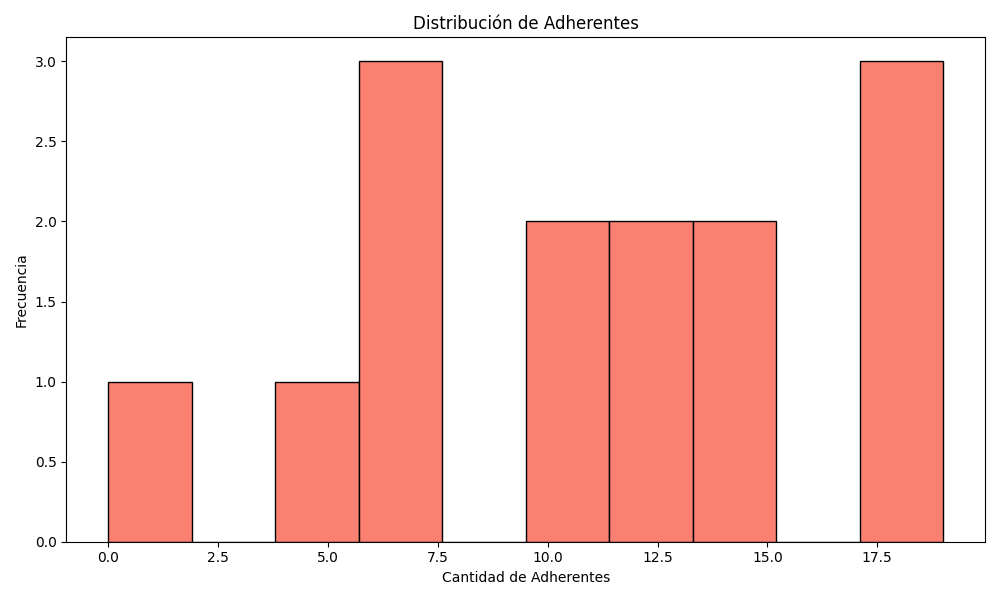
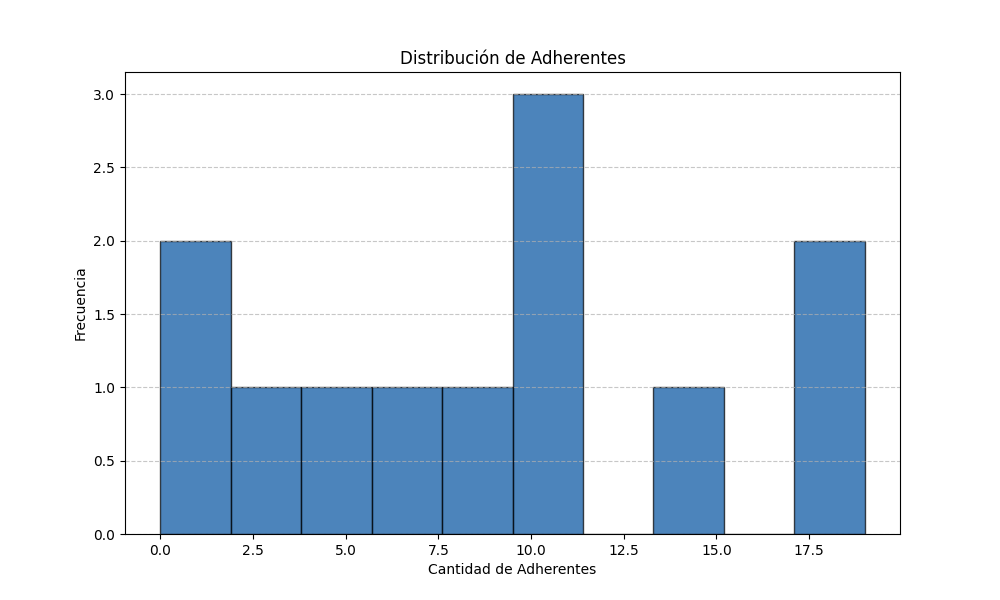
Logica de graficos y HTML totalmente corregidos

diff --git a/TrabajoPractico_3/proyecto_1/templates/analitica_reclamos.html b/TrabajoPractico_3/proyecto_1/templates/analitica_reclamos.html
@@ -38,52 +38,54 @@
                 <p>Resumen administrativo y reclamos pendientes del departamento.</p>
                 <div class="flashcard">
                     <h3>Torta</h3>
-                    <img src="{{ url_for('static', filename='graficos/soporte_informatico/torta_estado_soporte_informatico.png') }}" alt="Gráfico de torta">
+                    <img src="{% if current_user.rol in ['2', '3', '4'] and ruta_torta %}{{ url_for('static', filename=ruta_torta) }}{% else %}#{% endif %}" alt="{% if current_user.rol in ['2', '3', '4'] and ruta_torta %}Gráfico de Torta{% else %}No hay datos suficientes para generar el gráfico de torta{% endif %}">
                 </div>
                 <div class="flashcard">
                     <h3>Histograma</h3>
-                    <img src="{{ url_for('static', filename='graficos/soporte_informatico/histograma_soporte_informatico.png') }}" alt="Gráfico de histograma">
+                    <img src="{% if current_user.rol in ['2', '3', '4'] and ruta_histograma %}{{ url_for('static', filename=ruta_histograma) }}{% else %}#{% endif %}" alt="{% if current_user.rol in ['2', '3', '4'] and ruta_histograma %}Histograma de tiempos de resolución{% else %}No hay datos suficientes para generar el histograma{% endif %}">
                 </div>
                 <div class="flashcard">
                     <h3>Nube de Palabras</h3>
-                    <img src="{{ url_for('static', filename='graficos\soporte_informatico\nube_palabras_soporte_informatico.png') }}" alt="Nube de palabras">
+                    <img src="{% if current_user.rol in ['2', '3', '4'] and ruta_nube %}{{ url_for('static', filename=ruta_nube) }}{% else %}#{% endif %}" alt="{% if current_user.rol in ['2', '3', '4'] and ruta_nube %}Nube de Palabras{% else %}No hay datos suficientes para generar la nube de palabras{% endif %}">
                 </div>
             </div>
-        {% elif current_user.rol == '3' %}
-            <div>
-                <h3>Panel de Secretario Técnico</h3>
-                <p>Resumen administrativo y reclamos pendientes del departamento.</p>
-                <div class="flashcard">
-                    <h3>Torta</h3>
-                    <img src="{{ url_for('static', filename='graficos\secretario_tecnico\torta_estado_general.png') }}" alt="Gráfico de torta">
+            {% elif current_user.rol == '3' %}
+                <div>
+                    <h3>Panel de Secretaría Técnica</h3>
+                    <p>Resumen administrativo y reclamos pendientes del departamento.</p>
+                    <div class="flashcard">
+                        <h3>Torta</h3>
+                        <img src="{% if current_user.rol in ['2', '3', '4'] and ruta_torta %}{{ url_for('static', filename=ruta_torta) }}{% else %}#{% endif %}" alt="{% if current_user.rol in ['2', '3', '4'] and ruta_torta %}Gráfico de Torta{% else %}No hay datos suficientes para generar el gráfico de torta{% endif %}">
+                    </div>
+                    <div class="flashcard">
+                        <h3>Histograma</h3>
+                        <img src="{% if current_user.rol in ['2', '3', '4'] and ruta_histograma %}{{ url_for('static', filename=ruta_histograma) }}{% else %}#{% endif %}" alt="{% if current_user.rol in ['2', '3', '4'] and ruta_histograma %}Histograma de tiempos de resolución{% else %}No hay datos suficientes para generar el histograma{% endif %}">
+                    </div>
+                    <div class="flashcard">
+                        <h3>Nube de Palabras</h3>
+                        <img src="{% if current_user.rol in ['2', '3', '4'] and ruta_nube %}{{ url_for('static', filename=ruta_nube) }}{% else %}#{% endif %}" alt="{% if current_user.rol in ['2', '3', '4'] and ruta_nube %}Nube de Palabras{% else %}No hay datos suficientes para generar la nube de palabras{% endif %}">
+                    </div>
                 </div>
-                <div class="flashcard">
-                    <h3>Histograma</h3>
-                    <img src="{{ url_for('static', filename='graficos\secretario_tecnico\histograma_adherentes.png') }}" alt="Gráfico de histograma">
-                </div>
-                <div class="flashcard">
-                    <h3>Nube de Palabras</h3>
-                    <img src="{{ url_for('static', filename='graficos\secretario_tecnico\nube_palabras_secretario_tecnico.png') }}" alt="Nube de palabras">
-                </div>
-            </div>
-        {% elif current_user.rol == '4' %}
+
+       {% elif current_user.rol == '4' %}
             <div>
                 <h3>Panel de Maestranza</h3>
                 <p>Resumen administrativo y reclamos pendientes del departamento.</p>
                 <div class="flashcard">
                     <h3>Torta</h3>
-                    <img src="{{ url_for('static', filename='graficos\maestranza\torta_estado_maestranza.png') }}" alt="Gráfico de torta">
+                    <img src="{% if current_user.rol in ['2', '3', '4'] and ruta_torta %}{{ url_for('static', filename=ruta_torta) }}{% else %}#{% endif %}" alt="{% if current_user.rol in ['2', '3', '4'] and ruta_torta %}Gráfico de Torta{% else %}No hay datos suficientes para generar el gráfico de torta{% endif %}">
                 </div>
                 <div class="flashcard">
                     <h3>Histograma</h3>
-                    <img src="{{ url_for('static', filename='graficos\maestranza\histograma_maestranza.png') }}" alt="Gráfico de histograma">
+                    <img src="{% if current_user.rol in ['2', '3', '4'] and ruta_histograma %}{{ url_for('static', filename=ruta_histograma) }}{% else %}#{% endif %}" alt="{% if current_user.rol in ['2', '3', '4'] and ruta_histograma %}Histograma de tiempos de resolución{% else %}No hay datos suficientes para generar el histograma{% endif %}">
                 </div>
                 <div class="flashcard">
                     <h3>Nube de Palabras</h3>
-                    <img src="{{ url_for('static', filename='graficos\maestranza\nube_palabras_maestranza.png') }}" alt="Nube de palabras">
+                    <img src="{% if current_user.rol in ['2', '3', '4'] and ruta_nube %}{{ url_for('static', filename=ruta_nube) }}{% else %}#{% endif %}" alt="{% if current_user.rol in ['2', '3', '4'] and ruta_nube %}Nube de Palabras{% else %}No hay datos suficientes para generar la nube de palabras{% endif %}">
                 </div>
             </div>
         {% endif %}
+
     </section>
 
     <h3>Descargar reporte</h3>

diff --git a/TrabajoPractico_3/proyecto_1/templates/inicio.html b/TrabajoPractico_3/proyecto_1/templates/inicio.html
@@ -47,23 +47,6 @@
         <p class="saludo">
             Bienvenido {{ current_user.nombre_de_usuario }} al sistema de gestión y seguimiento de reclamos de la Facultad de Ingeniería de la UNER.
         </p>
-        {% if ultimos_reclamos %}
-            {%if current_user.rol in ['0','1'] %}
-            <section class="contenedor-flashcards">
-                <h2 class="titulo-seccion">Últimos Reclamos Realizados</h2>
-                <div class="flashcards-grid">
-                    {% for reclamo in ultimos_reclamos %}
-                        <div class="flashcard">
-                            <p><strong>Descripción:</strong> {{ reclamo.contenido }}</p>
-                            <p><strong>Fecha:</strong> {{ reclamo.fecha_hora.strftime('%d/%m/%Y %H:%M') }}</p>
-                            <p><strong>Clasificación:</strong> {{ reclamo.clasificacion }}</p>
-                        </div>
-                    {% endfor %}
-                </div>
-            {%endif%}
-            </section>
-        {% endif %}
-    {% else %}
         <div class="home-container">
             <div class="flashcard-big">
                 <h2 class="titulo-flashcard-grande">¿De qué se trata este sistema?</h2>

diff --git a/TrabajoPractico_3/proyecto_1/templates/manejo_reclamos.html b/TrabajoPractico_3/proyecto_1/templates/manejo_reclamos.html
@@ -27,7 +27,6 @@
     {% endif %}
     {% endwith %}
     <main class="contenedor-manejo">
-        <!-- Formulario de selección de reclamo y acción -->
         <div class="formulario-contenedor">
             <form class="formulario-manejo" action="{{ url_for('manejo_reclamos') }}" method="POST">
                 <div class="form-group">
@@ -55,8 +54,6 @@
                 <button type="submit">Confirmar</button>
             </form>
         </div>
-
-        <!-- Tabla de reclamos -->
         <div>
             <table class="tabla-reclamos">
                 <thead>
@@ -111,8 +108,6 @@
             </table>
         </div>
     </main>
-
-    <!-- Mensajes flash -->
     <div class="mensaje-flash-centro">
         {% with messages = get_flashed_messages(with_categories=true) %}
             {% if messages %}
@@ -124,7 +119,6 @@
             {% endif %}
         {% endwith %}
     </div>
-    <!-- Botón Volver -->
     <div class="volver-contenedor" style="text-align: center; margin: 30px 0;">
         <a href="{{ url_for('inicio') }}" class="enlace-boton">Volver</a>
     </div>

diff --git a/TrabajoPractico_3/proyecto_1/server.py b/TrabajoPractico_3/proyecto_1/server.py
@@ -42,8 +42,7 @@ def index():
 
 @app.route('/inicio')
 def inicio():
-    ultimos = repo_reclamos.obtener_ultimos_reclamos(limit=4)
-    return render_template('inicio.html', ultimos_reclamos=ultimos)
+    return render_template('inicio.html')
 
 @app.route('/registrarse', methods=['GET', 'POST'])
 def registrarse():
@@ -195,47 +194,45 @@ def analitica_reclamos():
     """
     Genera la analítica de reclamos según el rol del usuario.
     """
-    # Mapeo de roles a departamentos
-    rol_a_departamento = {
-        "2": "secretaría técnica",
-        "3": "soporte informático",
+    clasificacion_map = {
+        "2": "soporte informático",
+        "3": "secretaría técnica",
         "4": "maestranza"
     }
 
-    # Obtener el departamento según el rol del usuario
-    departamento_usuario = rol_a_departamento.get(current_user.rol)
+    rol = str(current_user.rol)
+    clasificacion_usuario = clasificacion_map.get(rol)
+    es_secretario = rol == "1"
 
-    # Filtrar reclamos según el rol del usuario
-    if current_user.rol == "1":  # Secretario Técnico
+    if es_secretario:
         reclamos = repo_reclamos.obtener_todos_los_registros()
-    elif departamento_usuario:  # Jefe de Departamento
-        reclamos = repo_reclamos.obtener_registros_por_filtro(filtro="clasificacion", valor=departamento_usuario)
+    elif clasificacion_usuario:
+        reclamos = repo_reclamos.obtener_registros_por_filtro(filtro="clasificacion", valor=clasificacion_usuario)
     else:
-        reclamos = []  # Si el rol no es válido, no hay reclamos
+        reclamos = []
 
-    # Calcular estadísticas
     cantidad_total = len(reclamos)
-    promedio_adherentes = round(sum(reclamo.cantidad_adherentes for reclamo in reclamos if reclamo.cantidad_adherentes) / cantidad_total, 2) if cantidad_total > 0 else 0
-    tiempos_resolucion = [reclamo.resuelto_en for reclamo in reclamos if reclamo.resuelto_en]
+    promedio_adherentes = round(sum(r.cantidad_adherentes for r in reclamos if r.cantidad_adherentes) / cantidad_total, 2) if cantidad_total > 0 else 0
+    tiempos_resolucion = [r.resuelto_en for r in reclamos if r.resuelto_en]
 
-    # Calcular la mediana usando MonticuloMediana
     if tiempos_resolucion:
         monticulo = MonticuloMediana(tiempos_resolucion)
         mediana = monticulo.obtener_mediana()
     else:
         mediana = 0
 
-    # Generar gráficos
-    graficadora_nube = GraficadoraNubePalabras()
-    ruta_nube = graficadora_nube.generar_nube_palabras(reclamos, nombre_archivo="nube_palabras.png")
+    # Usar clase unificada de graficación
+    graficadora = Graficadora(
+        generador_reportes=GeneradorReportes(repo_reclamos),
+        graficadora_torta=GraficadoraTorta(),
+        graficadora_histograma=GraficadoraHistograma(),
+        graficadora_nube=GraficadoraNubePalabras()
+    )
 
-    graficadora_histograma = GraficadoraHistograma()
-    ruta_histograma = graficadora_histograma.graficar(
-        datos=tiempos_resolucion,
-        titulo="Distribución de Tiempos de Resolución",
-        xlabel="Días",
-        ylabel="Frecuencia",
-        nombre_archivo="histograma_tiempos.png"
+    rutas = graficadora.graficar_todo(
+        reclamos=reclamos,
+        clasificacion=clasificacion_usuario,
+        es_secretario_tecnico=es_secretario
     )
 
     return render_template(
@@ -243,8 +240,11 @@ def analitica_reclamos():
         cantidad_total=cantidad_total,
         promedio_adherentes=promedio_adherentes,
         mediana=mediana,
-        ruta_nube=ruta_nube,
-        ruta_histograma=ruta_histograma
+        ruta_nube=rutas.get("nube_palabras"),
+        ruta_histograma=rutas.get("histograma"),
+        ruta_torta=rutas.get("torta"),
+        departamento_usuario=clasificacion_usuario or "Todos",
+        reclamos=reclamos
     )
 
 @app.route('/descargar_reporte/<formato>')

diff --git a/TrabajoPractico_3/proyecto_1/modules/modelos.py b/TrabajoPractico_3/proyecto_1/modules/modelos.py
@@ -29,9 +29,10 @@ class ModeloUsuario(Base):
     claustro = Column(String)
 
     reclamos = relationship(
-        "ModeloReclamo",
-        back_populates="usuarios"
-    )
+    "ModeloReclamo",
+    back_populates="usuarios",
+    overlaps="reclamos_creados,usuario"
+)
     
     def __str__(self):  
         return f"Usuario: Nombre = {self.nombre}, Apellido = {self.apellido}, Email = {self.email}, Nombre_de_usuario = {self.nombre_de_usuario}, Rol = {self.rol}"
@@ -65,10 +66,17 @@ class ModeloReclamo(Base):
     '''
 
     usuarios = relationship(
+    "ModeloUsuario",
+    back_populates="reclamos",
+    overlaps="reclamos_creados,usuario"
+)
+
+    usuario = relationship(
         "ModeloUsuario",
-        back_populates="reclamos"
+        foreign_keys=[usuario_id],
+        backref="reclamos_creados",
+        overlaps="reclamos,usuarios"
     )
-    usuario = relationship("ModeloUsuario", foreign_keys=[usuario_id], backref="reclamos_creados")
 
     @property
     def adherentes_ids(self):

diff --git a/TrabajoPractico_3/proyecto_1/modules/graficos.py b/TrabajoPractico_3/proyecto_1/modules/graficos.py
@@ -269,15 +269,14 @@ if __name__ == "__main__":
 
     print("Todos los gráficos fueron generados exitosamente.")
 
-    # Obtener todos los reclamos
     reclamos = repositorio.obtener_todos_los_registros(usuario_id=2)
-
-    # Crear una instancia de la graficadora
-    graficadora_nube = GraficadoraNubePalabras()
-
-    # Generar la nube de palabras
-    ruta_nube = graficadora_nube.generar_nube_palabras(reclamos)
-    print(f"Nube de palabras generada en: {ruta_nube}")
+    if reclamos:
+        graficadora_nube = GraficadoraNubePalabras()
+        ruta_nube = graficadora_nube.generar_nube_palabras(reclamos)
+        if ruta_nube:
+            print(f"Nube de palabras generada en: {ruta_nube}")
+    else:
+        print("[!] No se encontraron reclamos para el usuario_id=2. No se generó nube de palabras.")
 
 
 

diff --git a/TrabajoPractico_3/proyecto_1/modules/reportes.py b/TrabajoPractico_3/proyecto_1/modules/reportes.py
@@ -109,16 +109,17 @@ class GeneradorReportes:
         Devuelve la clasificación asociada a un rol específico.
         """
         try:
-            rol_int = int(rol)
+            rol = str(rol) 
         except ValueError:
             return None
 
         mapa_roles = {
-            1: 'soporte informático',
-            2: 'secretaría técnica',
-            3: 'maestranza'
+            '1': 'soporte informático',
+            '2': 'secretaría técnica',
+            '3': 'maestranza'
         }
-        return mapa_roles.get(rol_int)
+        return mapa_roles.get(rol)
+
     
     def obtener_datos_para_torta(self, rol):
         """

diff --git a/TrabajoPractico_3/proyecto_1/modules/repositorio.py b/TrabajoPractico_3/proyecto_1/modules/repositorio.py
@@ -251,6 +251,11 @@ class RepositorioReclamosSQLAlchemy(Repositorio):
         """
         Obtiene todos los registros que coinciden con un filtro específico.
         """
+        from sqlalchemy import func
+        if filtro == "clasificacion":
+            return self.session.query(ModeloReclamo).filter(
+                func.lower(ModeloReclamo.clasificacion) == valor.lower().strip()
+            ).all()
         modelos = self.__session.query(ModeloReclamo).filter_by(**{filtro: valor}).all()
         return [self.mapear_modelo_a_reclamo(modelo) for modelo in modelos]
 
